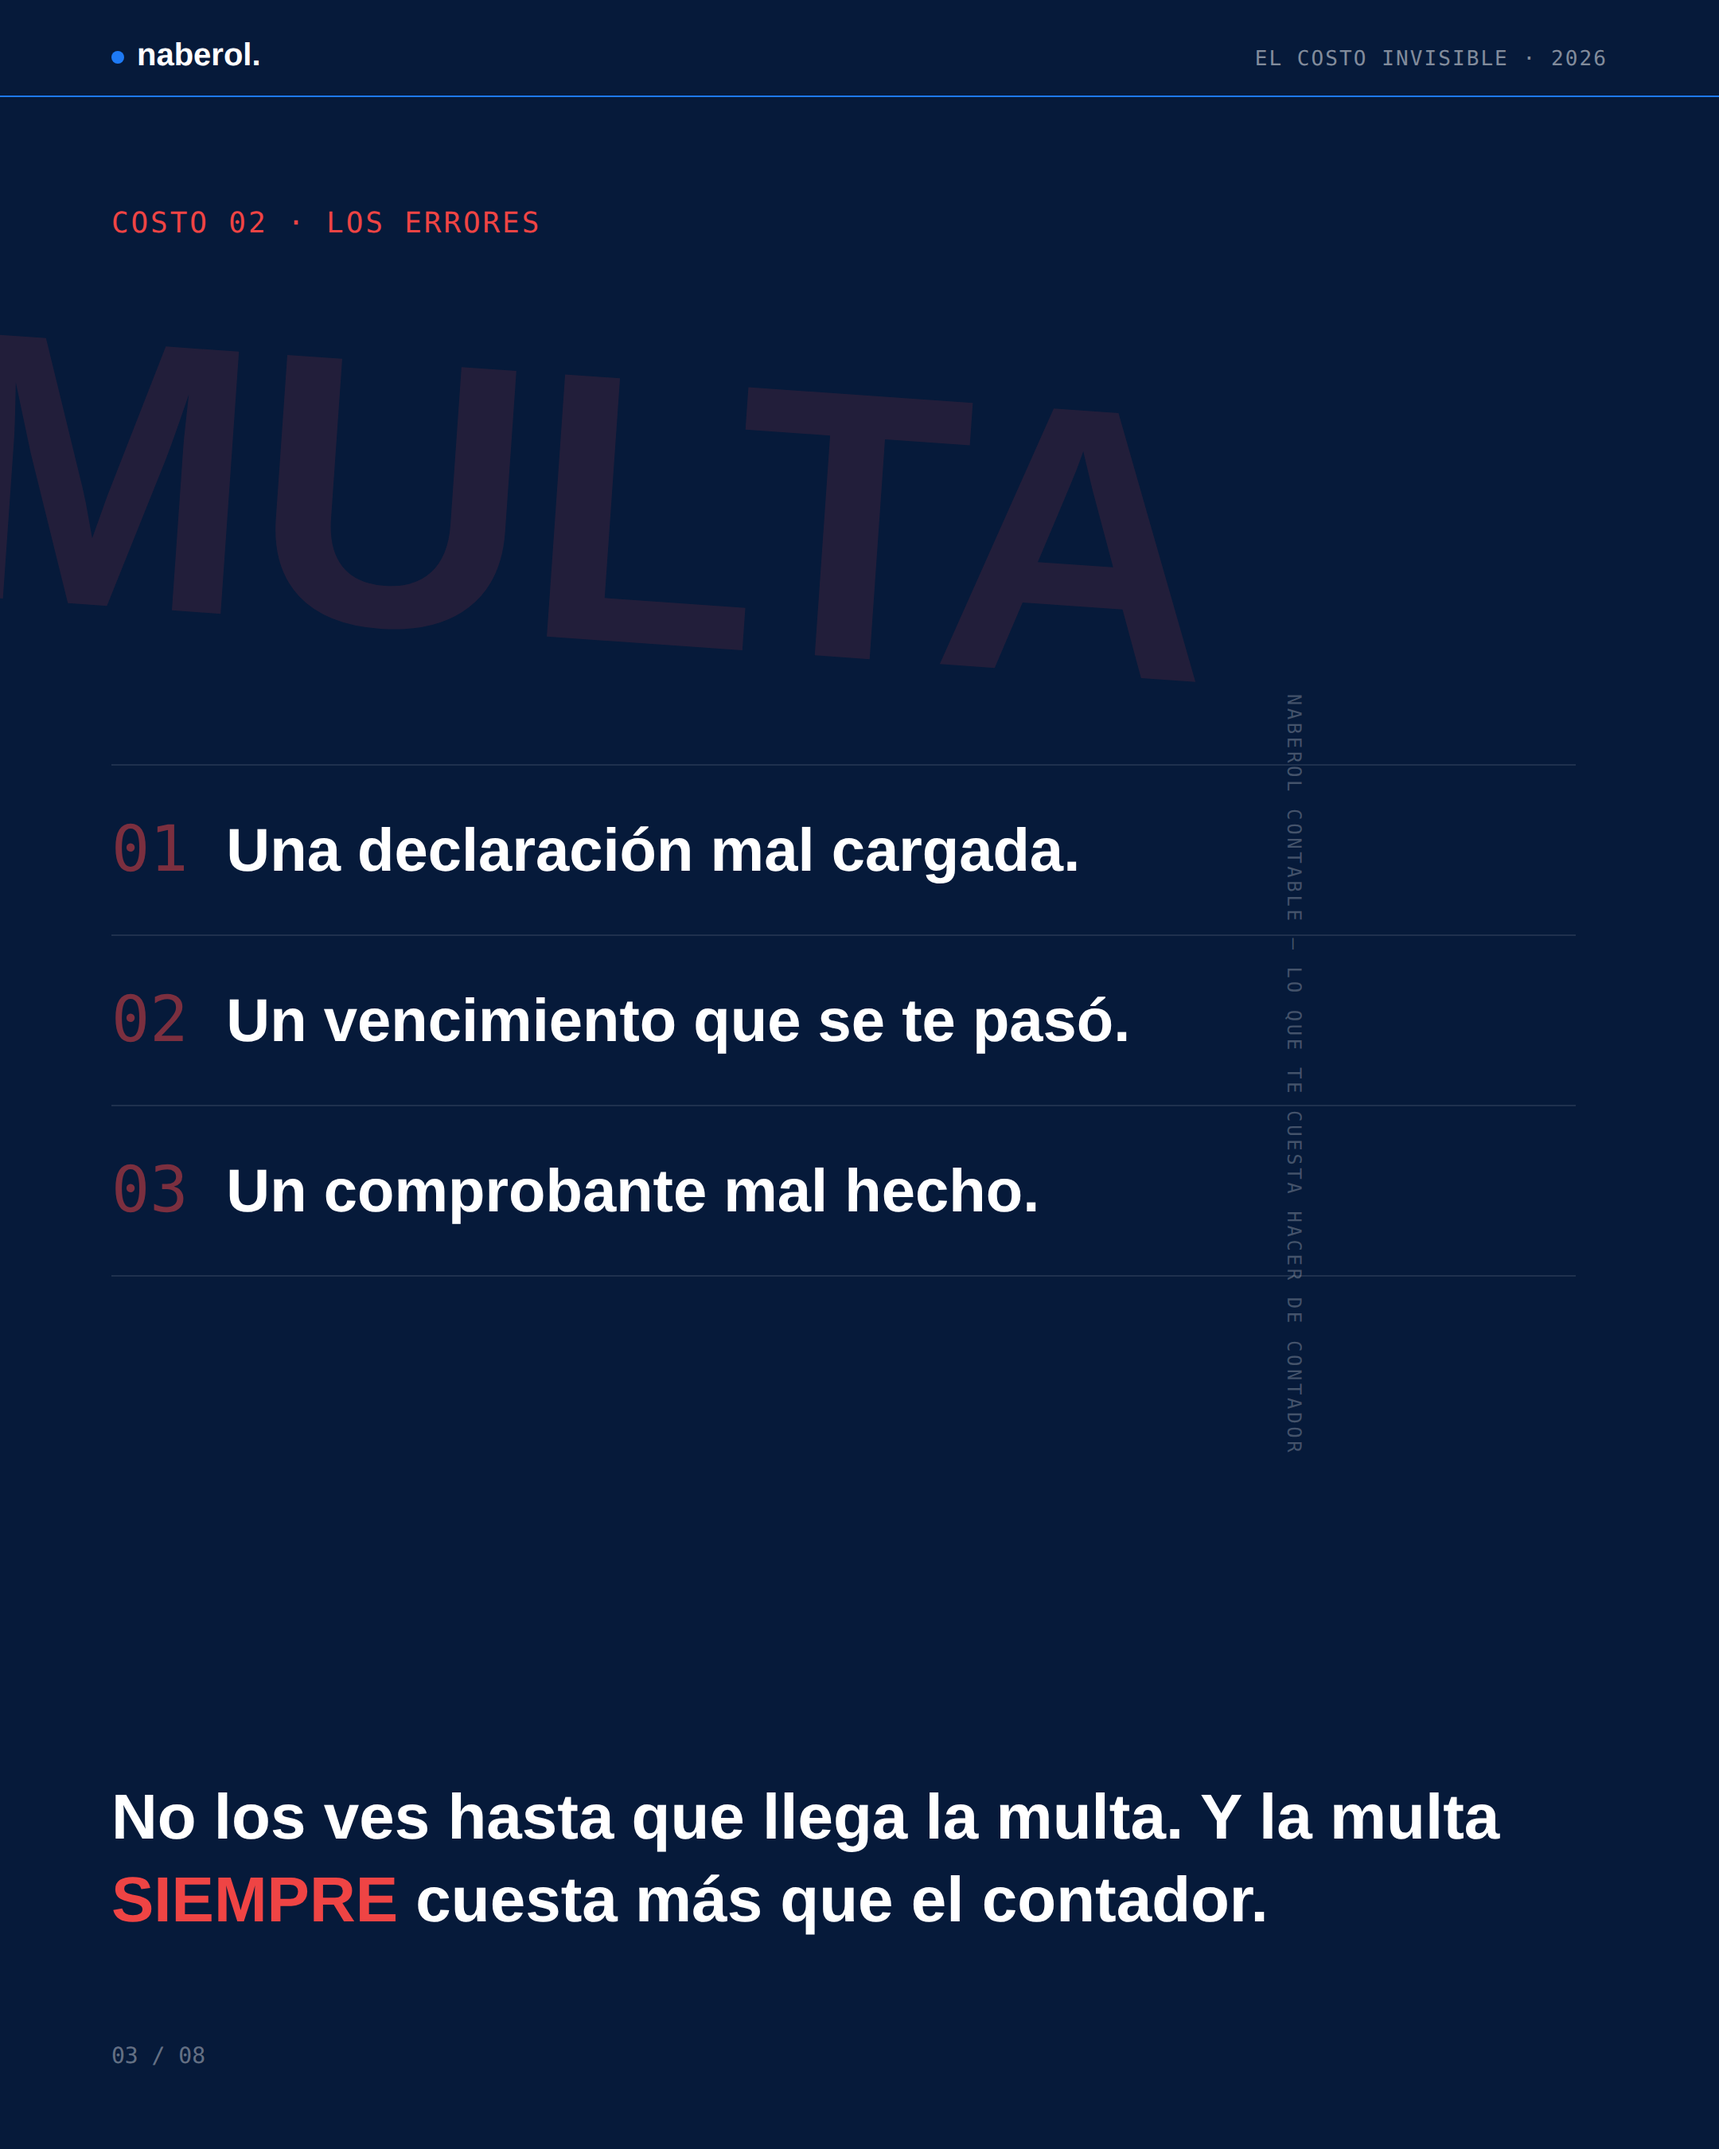
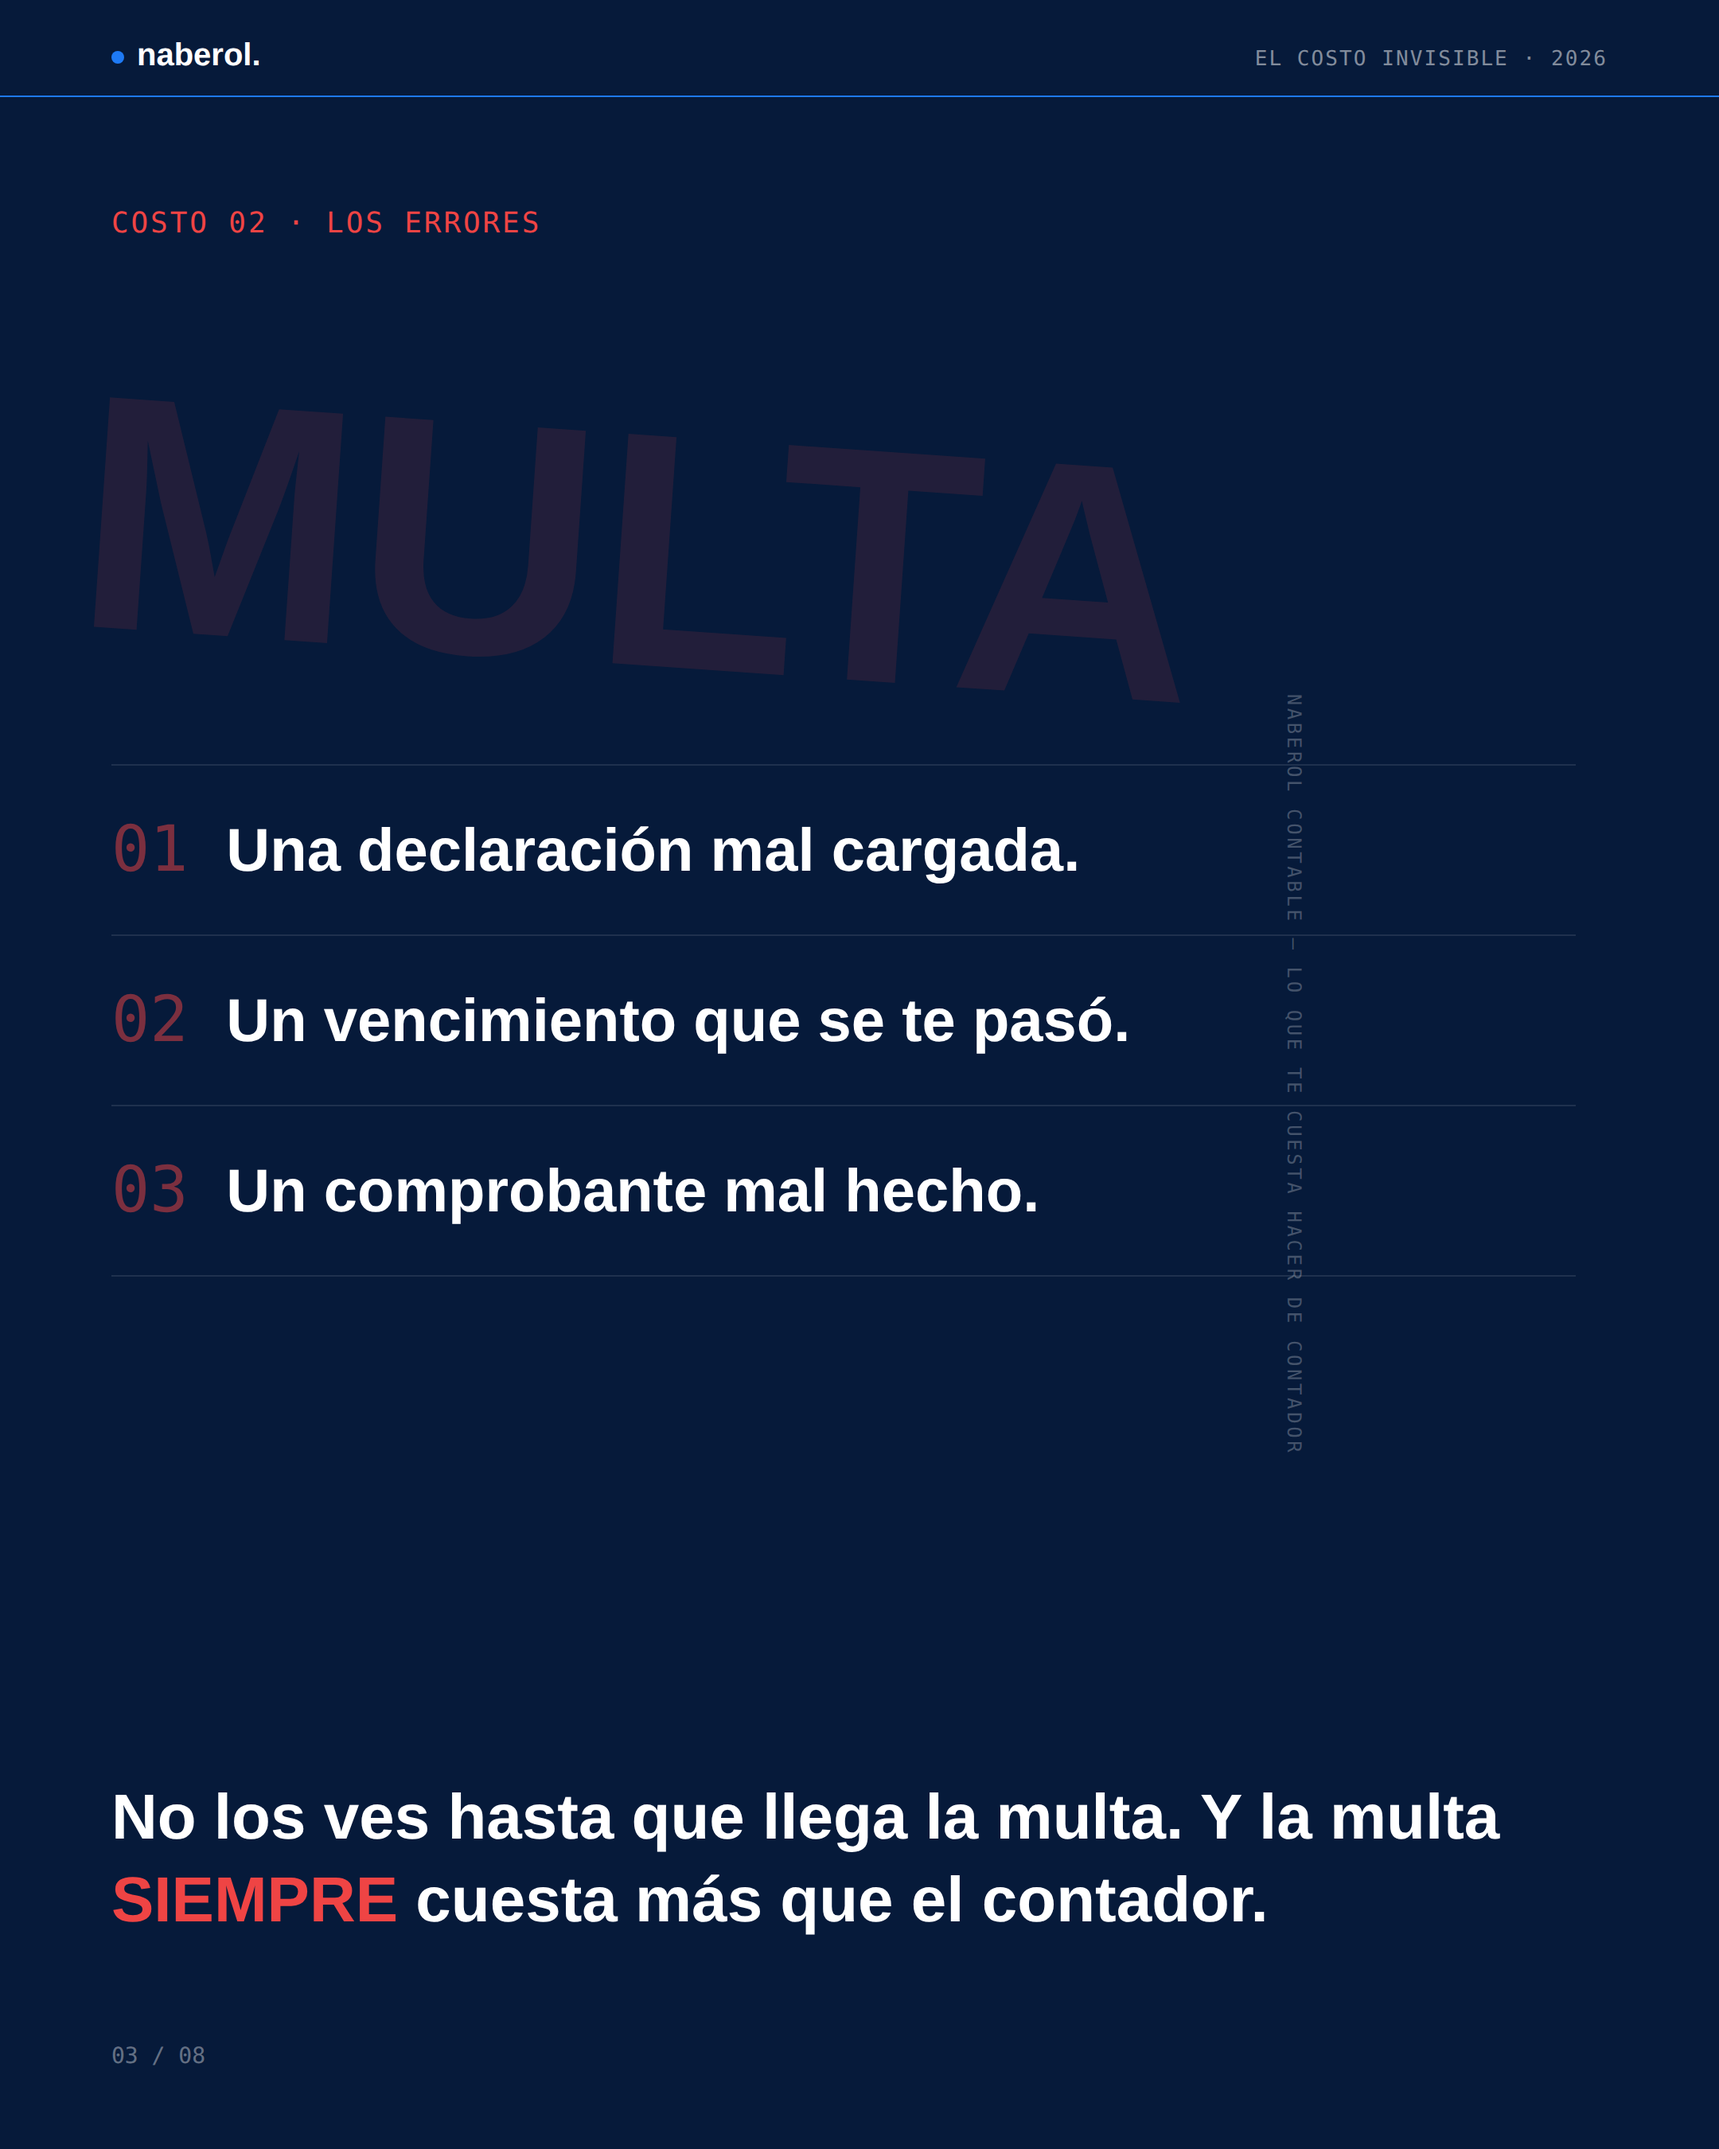
Fix watermark bleed on slides 1 and 3 so GRATIS/MULTA stay fully legible

Changed region(s): [[0.0, 0.1556, 0.7134, 0.3422]]

diff --git a/carrusel_costo_contador.html b/carrusel_costo_contador.html
@@ -106,11 +106,12 @@
   /* ════════ SLIDE 1 — HOOK ════════ */
   #s1 .watermark{
     position:absolute;
-    top:120px; left:-60px;
+    top:140px; left:50px;
     font-weight:700;
-    font-size:280px;
+    font-size:230px;
     color:rgba(255,255,255,0.06);
     transform:rotate(-6deg);
+    transform-origin:left center;
     white-space:nowrap;
     z-index:0;
   }
@@ -183,11 +184,12 @@
   }
   #s3 .watermark{
     position:absolute;
-    top:180px; left:-40px;
+    top:200px; left:50px;
     font-weight:700;
-    font-size:240px;
+    font-size:210px;
     color:rgba(239,68,68,0.12);
     transform:rotate(4deg);
+    transform-origin:left center;
     white-space:nowrap;
     z-index:0;
   }
